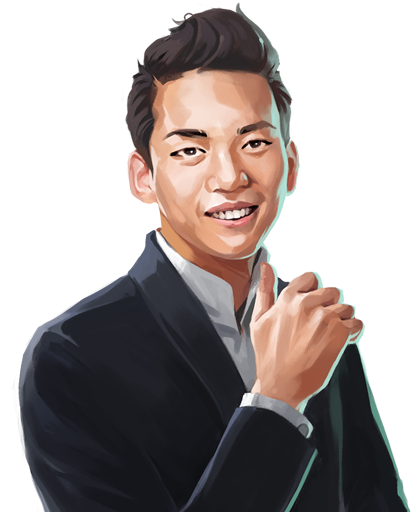
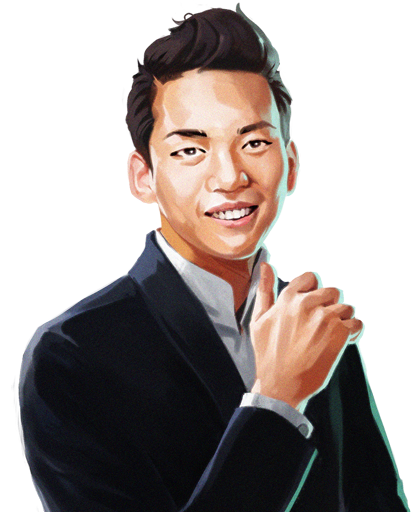
Updated founder_message_portait.png to latest.

diff --git a/components/founder_message/_founder_message.scss b/components/founder_message/_founder_message.scss
@@ -26,12 +26,12 @@ $founder-block-min-height: 15em;
 ///
 /// Founder photo URL.
 ///
-$founder-photo-url: 'founder_message_portait.webp?v=1';
+$founder-photo-url: 'founder_message_portait.webp?v=2';
 
 ///
 /// Founder photo URL for browsers that don't support WebP.
 ///
-$founder-photo-url-fallback: 'founder_message_portait.png?v=1';
+$founder-photo-url-fallback: 'founder_message_portait.png?v=2';
 
 ///
 /// Founder photo maximum width when inline, i.e. beside content.
